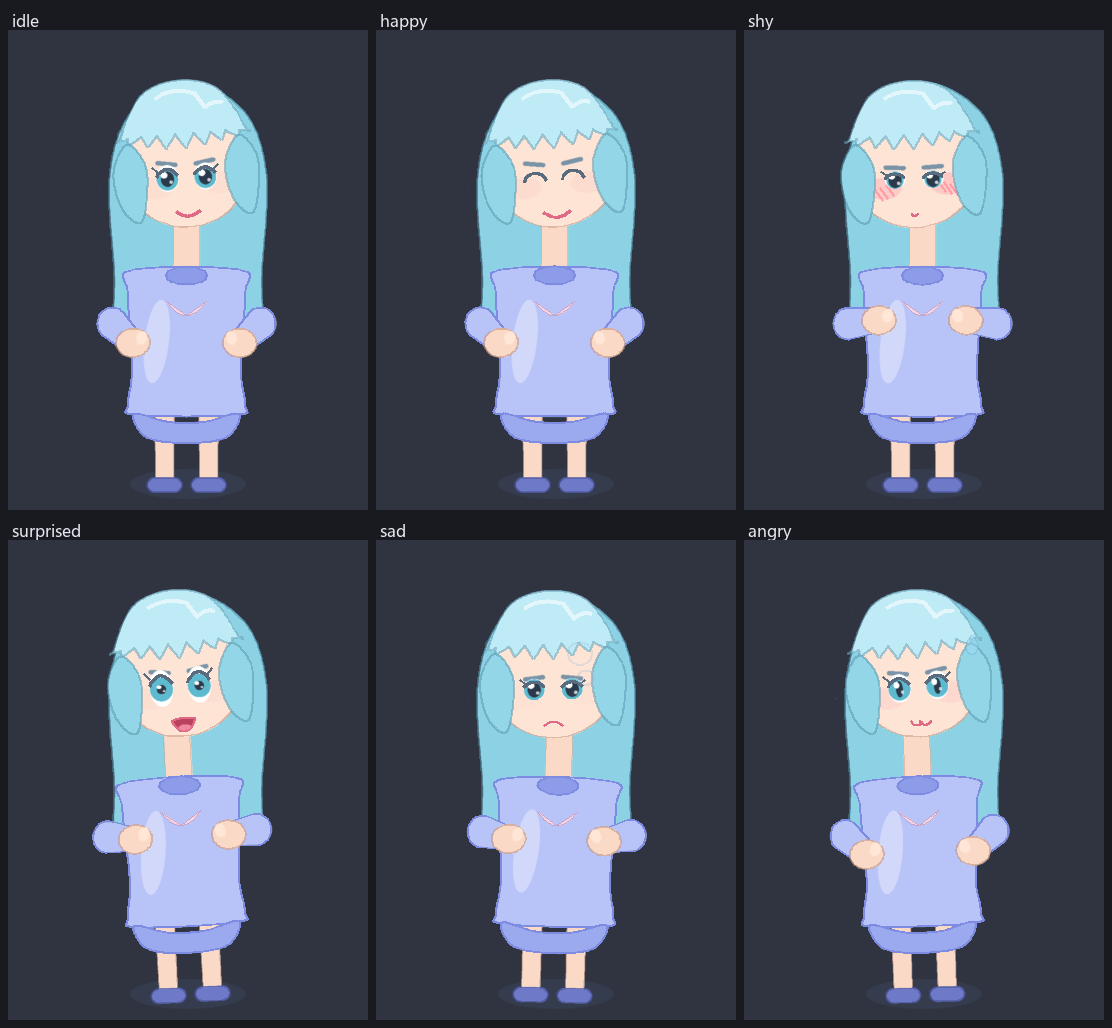
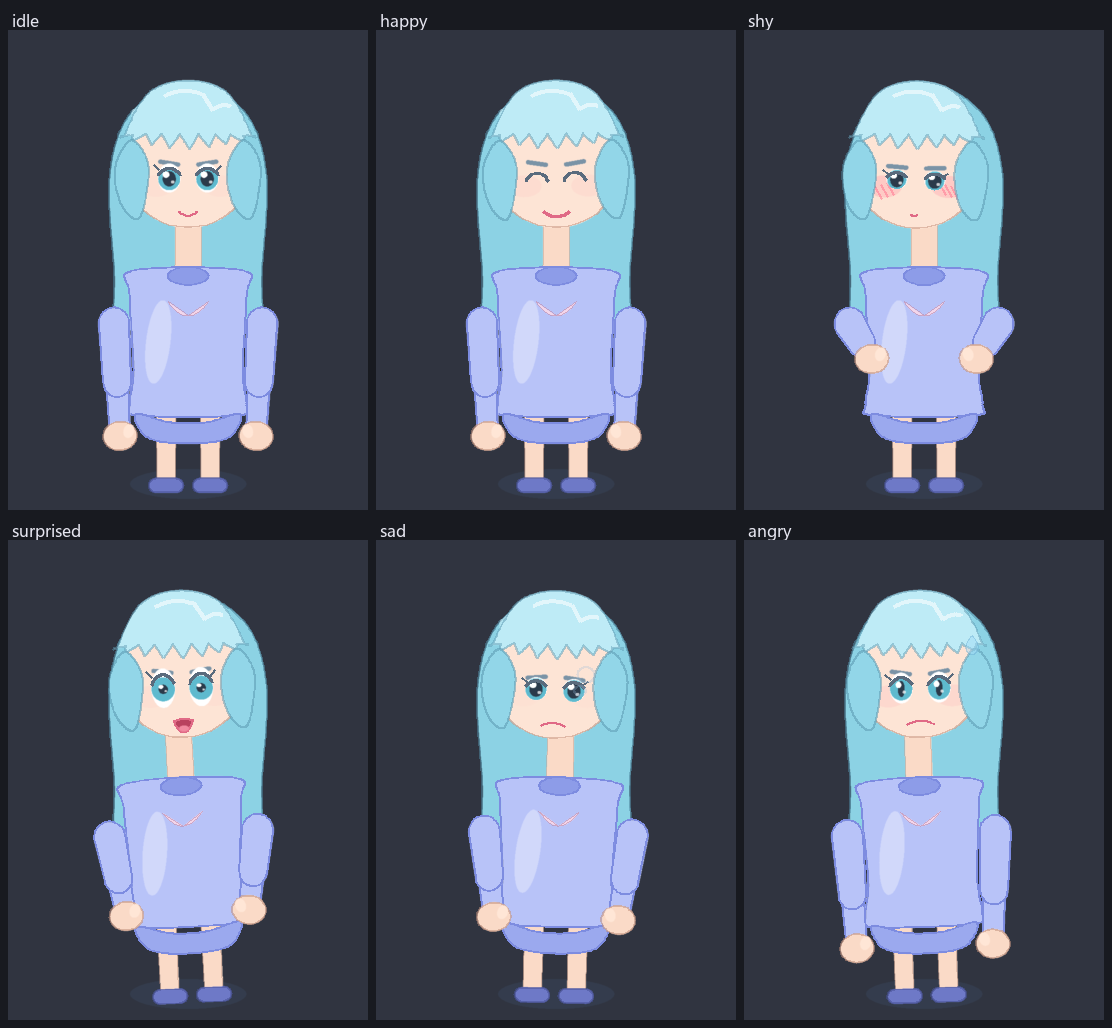
docs+samples: README 补像素复核说明；对照表换成真待机姿态六格

diff --git a/README.md b/README.md
@@ -147,7 +147,9 @@ done
 python tools/contact-sheet.py tools/samples/contact-sheet.png idle,happy,shy,surprised,sad,angry --dir /tmp
 ```
 
-> 注意：`tools/rasterize-canvas.py` 用**非零环绕规则**（和浏览器一致）填充路径，而不是 PIL `ImageDraw.polygon()` 的偶奇规则 —— 两者对**自相交**路径结果不同（本项目踩过：`capsule()` 曾两段弧扫同一侧，浏览器里也只填出半个宽度）。改这个文件时别把 `fill_nonzero()` 换回去。
+> 注意：`tools/rasterize-canvas.py` 用**非零环绕规则**（和浏览器一致）填充路径，而不是 PIL `ImageDraw.polygon()` 的偶奇规则 —— 两者对**自相交**路径结果不同。改这个文件时别把 `fill_nonzero()` 换回去。
+>
+> **形状对不对只能看像素**：`smoke-pet-render.mjs` 能证明「无 NaN、无异常」，但证明不了「画出来像不像」。`tools/smoke-pet-frame.mjs` 顶部注释记录了七种「形状自相交 / 锥形」启发式判据**全部失败**的经过，不要再往那里加同类判据。另外 `dump-pet-frame.mjs` 默认会先推帧到入场问候排空、再连续 240 帧静态才 dump，所以默认拍到的是**真待机姿态**（`--no-settle` 可关掉）。
 
 ## 自己动手做一版声音（简版）
 
